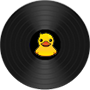
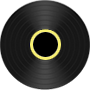
add duck to record

Changed region(s): [[0.3333, 0.3111, 0.6889, 0.6667]]

diff --git a/src/pages/create-song.vue b/src/pages/create-song.vue
@@ -3,21 +3,20 @@
     <p class="text-white text-sm text-center mt-0 pt-0">Drag the records onto the record player.</p>
     <div class="dj-app px-2 mt-0 mt-0">
         <div v-for="group in groups" :key="group.id" class="instrument-group my-2">
+            
             <div class="flex justify-center mt-0 pt-0 mb-0 relative">
-                <span class="text-white slider-title coiny">{{ group.label }}</span>
-                <div>
+                
                     <input type="range" min="0" max="120" step="10" @change="(e) => setVolume(group.id, e.target.value)"
-                        class="volume-slider-horizontal" />
+                        class="volume-slider-horizontal mt-2" />
 
-                </div>
+                
+                <span class="text-white slider-title coiny">{{ group.label}}<span vif="group.currentDiscId">: v{{group.currentDiscId?.slice(2)}}</span></span>
             </div>
-            <div class="grid grid-cols-3 gap-2 items-center mt-0 pt-0">
+            <div class="grid grid-cols-3  items-center mt-0 pt-0 mt-5 pt-5">
                 <!-- Record Player (Drop Zone) -->
                 <div :class="['record-player', `group-${group.id}`, { 'spinning': group.isSpinning }]" @dragover.prevent
                     @drop.prevent="(e) => handleDrop(e, group)">
-                    <div :class="`color-indicator group-${group.id}-color`"></div>
-                    <p class="text-white disc-center flex items-center justify-center h-full">{{ group.currentDiscId }}
-                    </p>
+                    <div :class="`color-indicator group-${group.id}-color`"><img  class="center-duck"src="@/assets/images/records/little-duck.png"/></div>
 
                 </div>
 
@@ -1144,7 +1143,7 @@ span.group-title.text-white {
 }
 
 .disc-wrapper {
-    overflow: hidden;
+    overflow-x: scroll;
     min-width: 200px;
     margin-bottom: 16px;
     padding-top: 10px;
@@ -1169,12 +1168,19 @@ span.group-title.text-white {
 
 .color-indicator {
     position: absolute;
-    top: 32%;
-    right: 32%;
-    left: 32%;
-    bottom: 32%;
-    border: 1px solid #ffffff;
+    top: 29%;
+    right: 29%;
+    left: 29%;
+    bottom: 29%;
+    border: 2px solid var(--el-color-primary);
     border-radius: 50%;
+
+}
+
+img.center-duck {
+    margin: 1px 0px 0px 2px;
+    height: 30px;
+    width: 30px;
 }
 
 /* Group colors */
@@ -1278,7 +1284,8 @@ span.text-white.slider {
 }
 
 .volume-slider-horizontal {
-    margin: 10px 0;
+    position: absolute;
+    right: 16px;
 }
 
 .volume-range {
